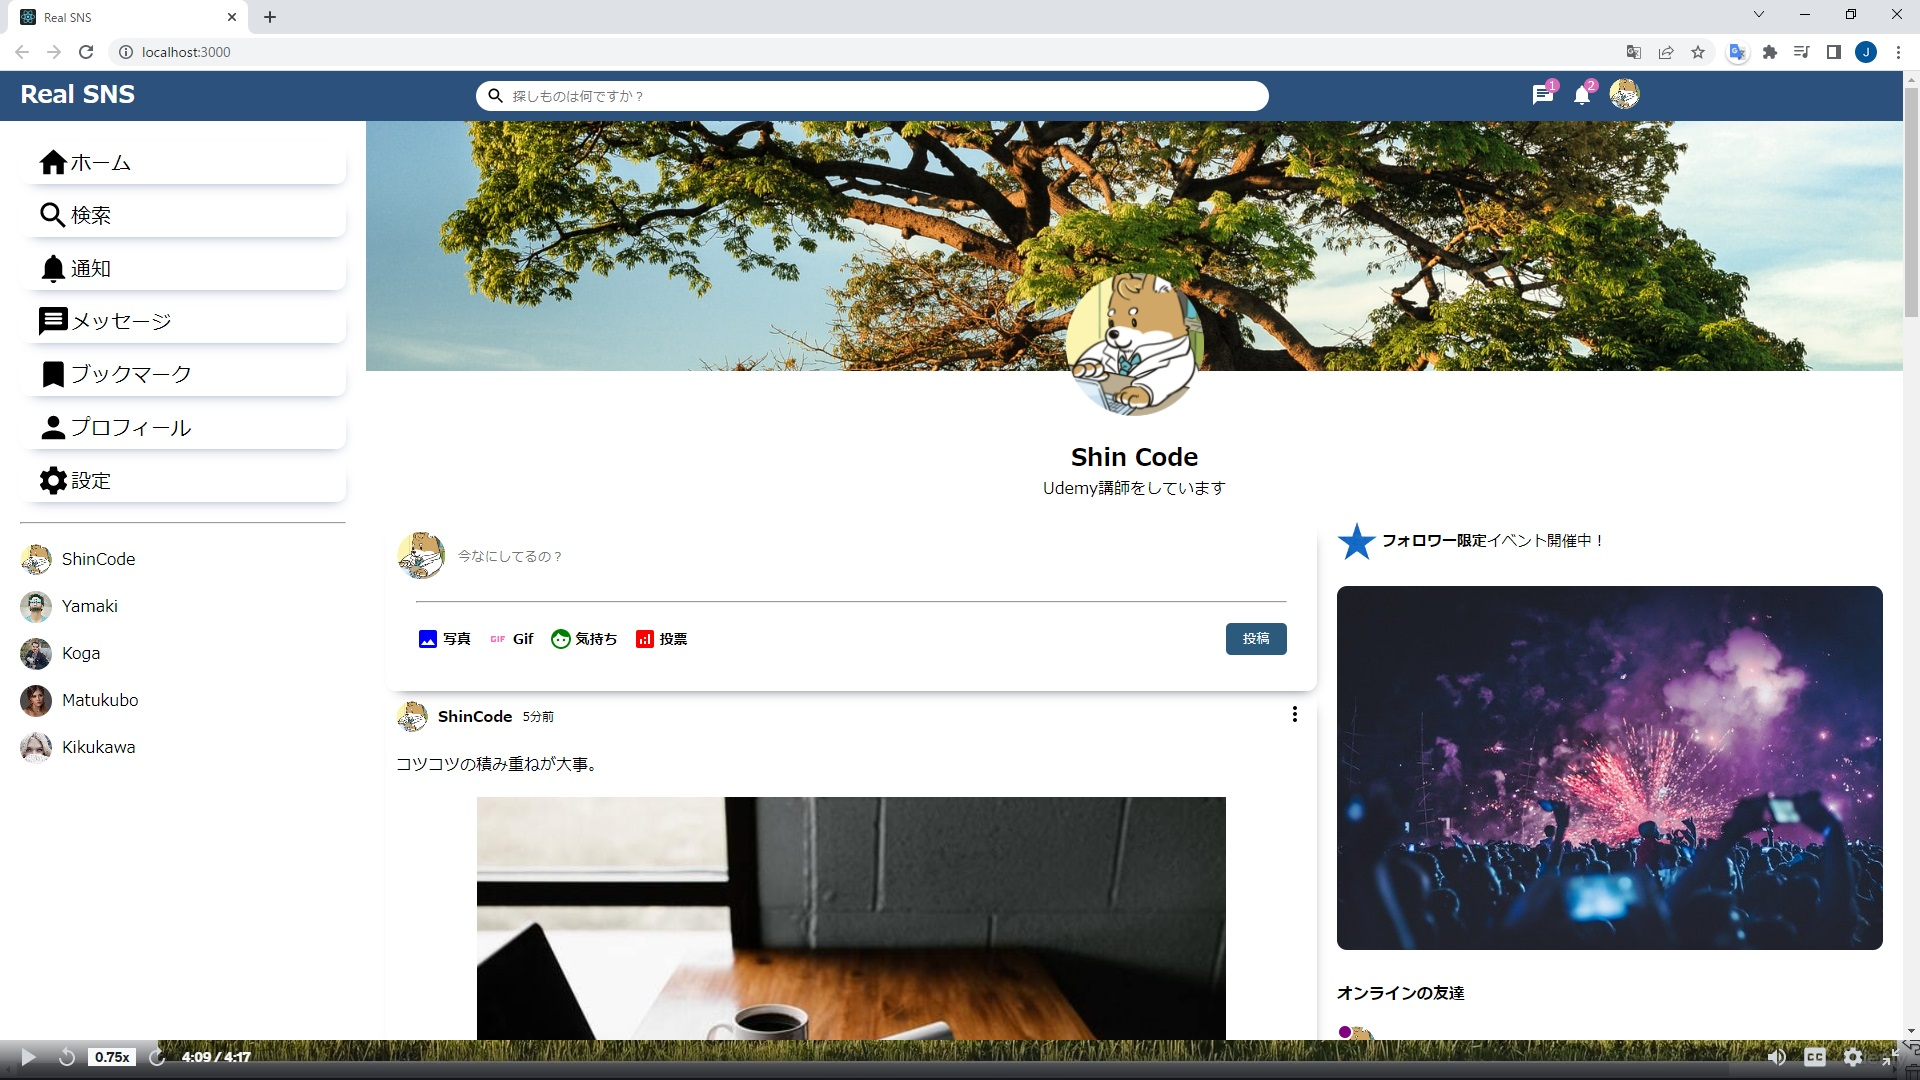
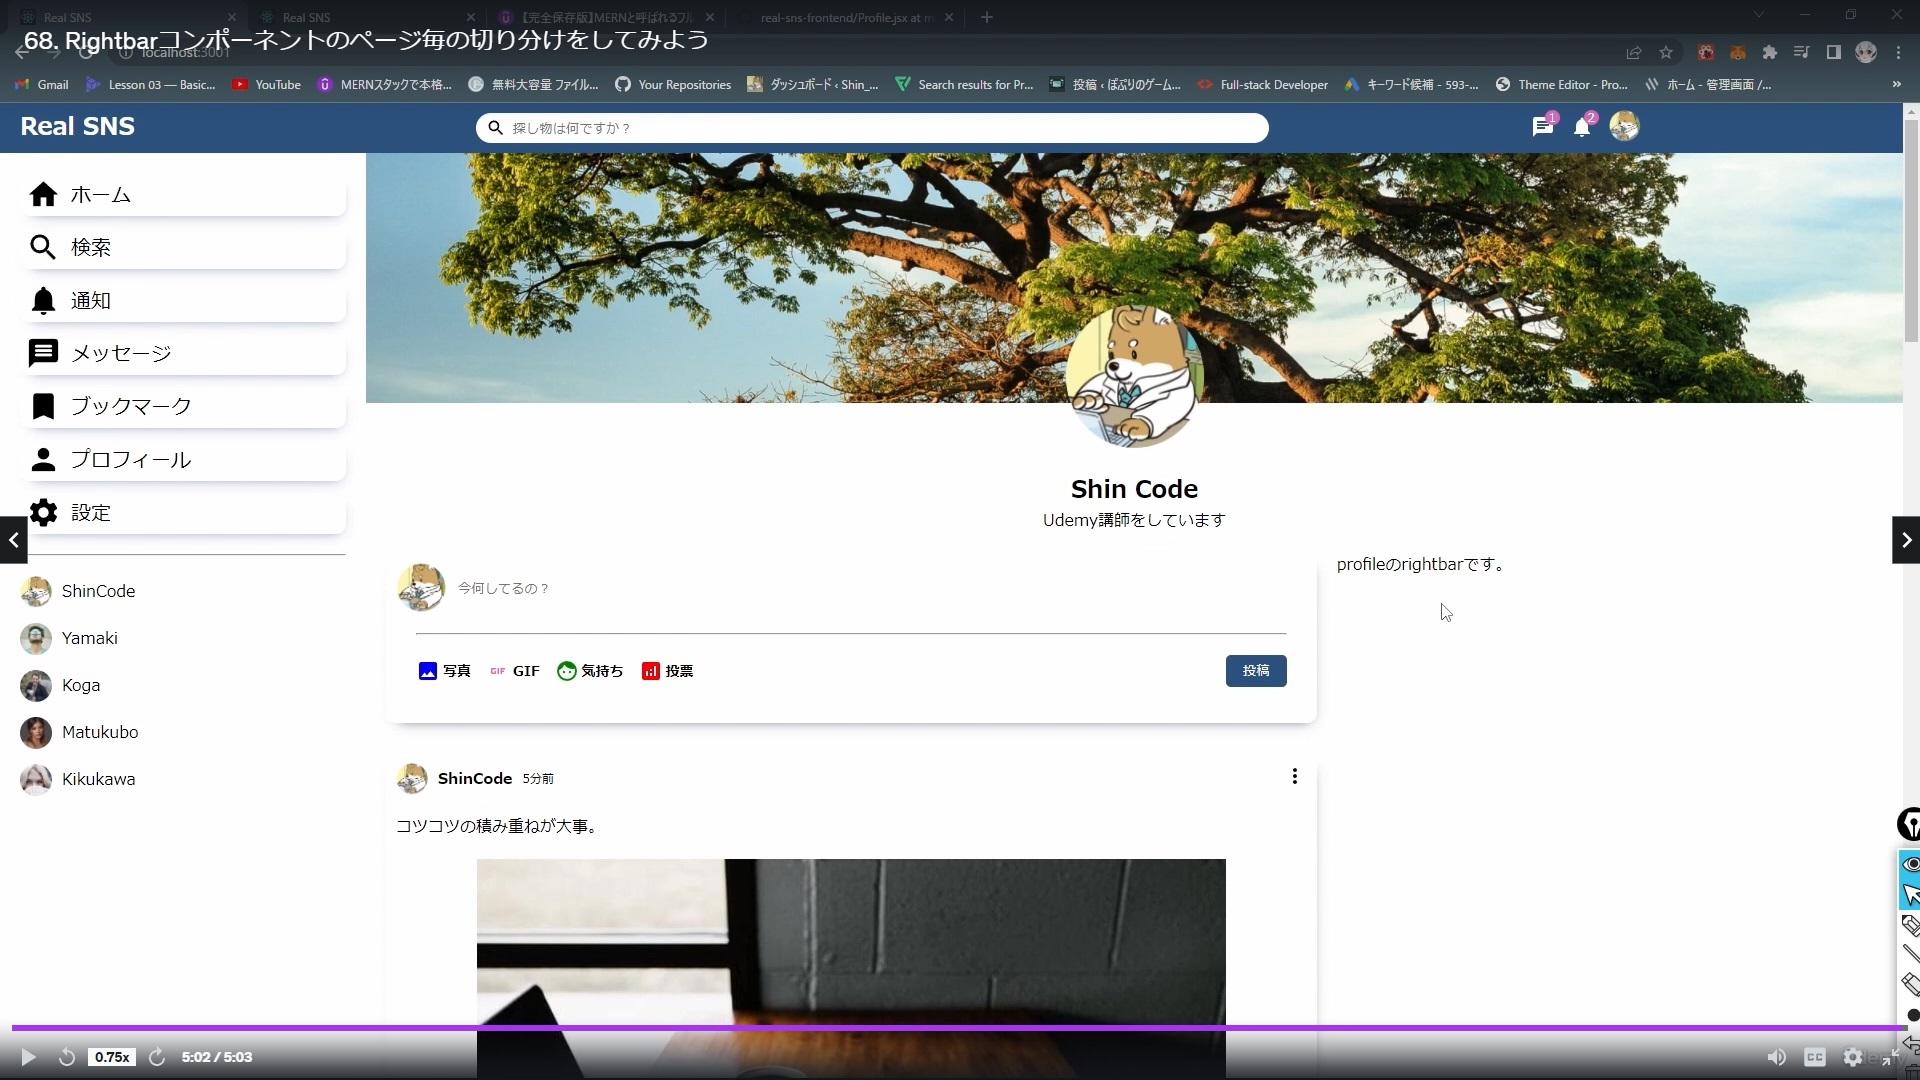
L68. ProfileのRightbarで、Rightbarの切り分け追加

diff --git a/src/components/rightbar/Rightbar.jsx b/src/components/rightbar/Rightbar.jsx
@@ -3,43 +3,58 @@ import "./Rightbar.css"
 import { Users } from "../../dummyData";
 import Online from '../online/Online';
 
-export default function Rightbar() {
-  return (
-    <div className="rightbar">
-      <div className="rightbarWrapper">
+export default function Rightbar({profile}) {
+  const HomeRightbar = () => {
+    return (
+      <>
         <div className="eventContainer">
           <img src="assets/star.png" alt="" className="starImg"/>
           <span className="evenText">
             <b>フォロワー限定</b>イベント開催中！
           </span>
-          </div> 
-          <img className="eventImg" src="assets/event.jpeg" alt="" />
-          <h4 className="rightbarTitle">オンラインの友達</h4>
-          <ul className="rightbarFriendList">
-            { Users.map((user) => (
-              <Online user={user} key={user.id} />
-            ))}
-            
-          </ul>
-          <p className="promotionTitle">プロモーション広告</p>
-          <img 
-              src="assets/promotion/promotion1.jpeg" 
-              alt="" 
-              className="rightbarPromotionImg" 
-          />
-          <p className="promotionName">ショッピング</p>
-          <img 
-              src="assets/promotion/promotion2.jpeg" 
-              alt="" 
-              className="rightbarPromotionImg" 
-          />
-          <p className="promotionName">カーショップ</p>
-          <img 
-              src="assets/promotion/promotion3.jpeg" 
-              alt="" 
-              className="rightbarPromotionImg" 
-          />
-          <p className="promotionName">Shin Code株式会社</p>
+        </div> 
+        <img className="eventImg" src="assets/event.jpeg" alt="" />
+        <h4 className="rightbarTitle">オンラインの友達</h4>
+        <ul className="rightbarFriendList">
+          { Users.map((user) => (
+            <Online user={user} key={user.id} />
+          ))}
+          
+        </ul>
+        <p className="promotionTitle">プロモーション広告</p>
+        <img 
+            src="assets/promotion/promotion1.jpeg" 
+            alt="" 
+            className="rightbarPromotionImg" 
+        />
+        <p className="promotionName">ショッピング</p>
+        <img 
+            src="assets/promotion/promotion2.jpeg" 
+            alt="" 
+            className="rightbarPromotionImg" 
+        />
+        <p className="promotionName">カーショップ</p>
+        <img 
+            src="assets/promotion/promotion3.jpeg" 
+            alt="" 
+            className="rightbarPromotionImg" 
+        />
+        <p className="promotionName">Shin Code株式会社</p>
+      </>
+    );
+  } 
+
+  const ProfileRightbar = () => {
+    return (
+      <>
+      profileのRightbarです。
+      </>
+    )
+  }
+  return (
+    <div className="rightbar">
+      <div className="rightbarWapper">
+        {profile ? <ProfileRightbar/> : <HomeRightbar/> }
       </div>
     </div>
   );

diff --git a/src/pages/profile/Profile.jsx b/src/pages/profile/Profile.jsx
@@ -33,7 +33,7 @@ export default function Profile() {
             </div>
             <div className="profileRightBottom">
                 <TimeLine />
-                <Rightbar />     
+                <Rightbar profile/>     
             </div>
           </div>
         </div>
